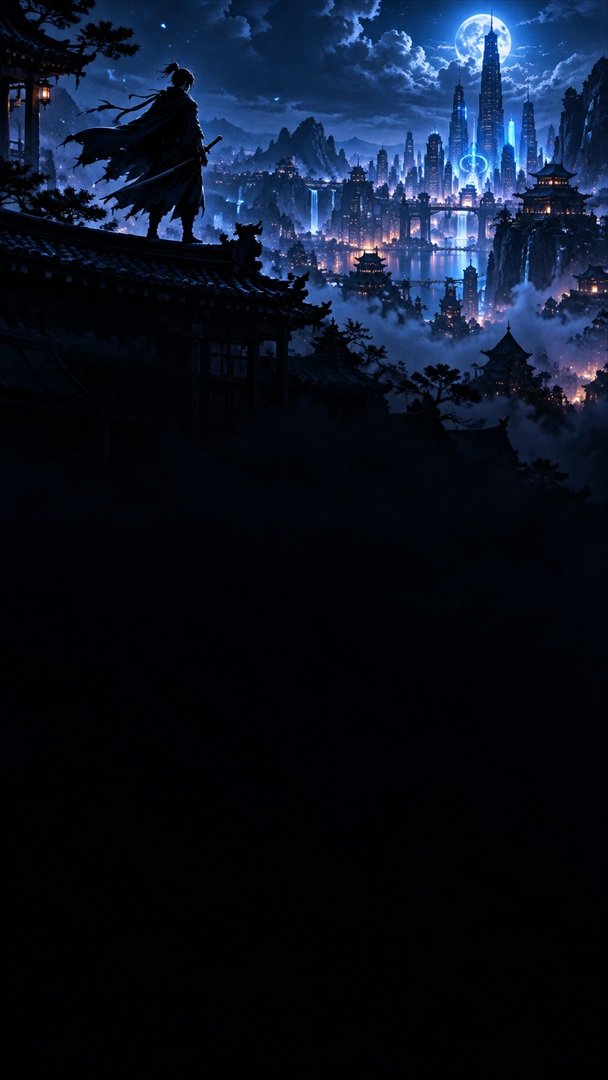
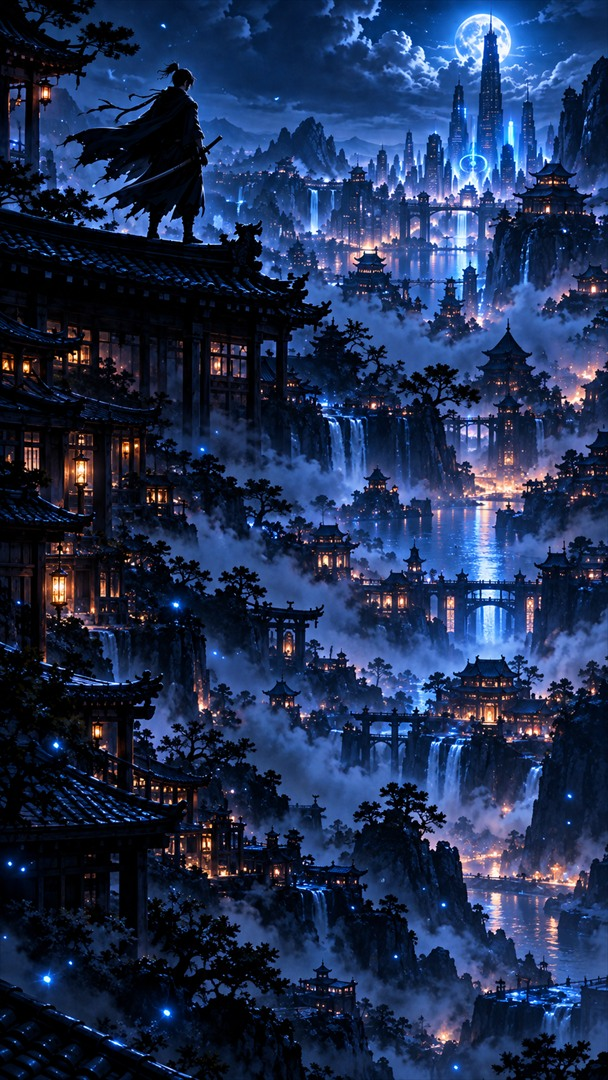
Swap in full-height Today/Gate background art
The redrawn today.png/gate.png (art through the full frame, replacing the
versions that went black below ~40-60%) converted to 608x1080 JPEG q92
(2.5 MB PNG -> 255 / 224 KB). Originals and the previous versions moved to
../images/backgrounds-original/.

The new art is busier/brighter behind the cards, so contrast was
re-measured: today now dims 0.35 and gate 0.45 (each the smallest value
keeping every text element at WCAG AA); quest XP ranges and countdown
values get a small dark backing chip; quest hint/Undo labels move from
text-muted to text-secondary.

diff --git a/tracker-app/src/components/hunter/QuestCards.tsx b/tracker-app/src/components/hunter/QuestCards.tsx
@@ -141,10 +141,13 @@ export function QuestCards({
                     </span>
                   </span>
                   <span className="shrink-0 text-right">
-                    <span className="block font-mono text-lg font-bold text-[rgb(var(--glow))] drop-shadow-[0_0_6px_rgb(var(--glow)/0.6)]">
+                    {/* Tier-colored XP range on its own dark chip (lightened a step
+                        toward white): the deep tier reds/purples can't hold contrast
+                        over bright art through see-through glass on their own. */}
+                    <span className="inline-block rounded-md bg-black/50 px-1.5 font-mono text-lg font-bold text-[color-mix(in_srgb,rgb(var(--glow))_75%,white)] drop-shadow-[0_0_6px_rgb(var(--glow)/0.6)]">
                       {formatTierXPRange(q.tiers)}
                     </span>
-                    <span className="block text-[10px] font-bold text-text-muted uppercase">
+                    <span className="block text-[10px] font-bold text-text-secondary uppercase">
                       {q.tiers.length === 1 ? 'Tap to claim' : isPicking ? 'Pick one' : 'Tap to pick'}
                     </span>
                   </span>
@@ -219,7 +222,7 @@ export function QuestCards({
                     <button
                       type="button"
                       onClick={() => startUndo(q.id)}
-                      className="cursor-pointer text-[10px] font-bold text-text-muted uppercase hover:text-warning"
+                      className="cursor-pointer text-[10px] font-bold text-text-secondary uppercase hover:text-warning"
                     >
                       Undo
                     </button>

diff --git a/tracker-app/src/lib/screenBackgrounds.ts b/tracker-app/src/lib/screenBackgrounds.ts
@@ -34,11 +34,16 @@ export const screenBackground = (key: ScreenBackgroundKey): string | undefined =
   resolveBackground(BACKGROUNDS, key)
 
 // Extra darkening an image needs on top of the standard overlay, by key.
-// It's a property of the artwork, not of the screen showing it: the generic
-// burst (mean luma ~100-113/255 through its middle) and the gate (~78 around
-// the portal) are the two bright images; today/profile stay ≤60 and need
-// none. Values chosen by measuring text contrast over each image.
-const BACKGROUND_DIM: Partial<Record<ScreenBackgroundKey, number>> = { generic: 0.35, gate: 0.35 }
+// It's a property of the artwork, not of the screen showing it: generic,
+// gate and (since their full-height redraw) today are busy/bright behind
+// the card area — the redrawn gate most of all (mean luma up to ~107/255
+// around the portal); profile's dark nebula needs none. Each value is the
+// smallest that keeps every text element at WCAG AA over that image.
+const BACKGROUND_DIM: Partial<Record<ScreenBackgroundKey, number>> = {
+  generic: 0.35,
+  gate: 0.45,
+  today: 0.35,
+}
 
 /** Spread into <ScreenBackground>: the image URL plus that image's dim. */
 export const screenBackgroundProps = (

diff --git a/tracker-app/src/components/ui/CountdownTimer.tsx b/tracker-app/src/components/ui/CountdownTimer.tsx
@@ -61,12 +61,14 @@ export function CountdownTimer({
   return (
     <span
       className={cn(
-        'inline-flex items-center rounded-md border px-2 py-0.5 font-mono text-sm tracking-wider tabular-nums',
+        // bg-black/50: its own dark backing, so the digits stay legible
+        // over screen art seen through see-through glass.
+        'inline-flex items-center rounded-md border bg-black/50 px-2 py-0.5 font-mono text-sm tracking-wider tabular-nums',
         expired
           ? 'border-border text-text-muted'
           : urgent
             ? 'border-tier-red/50 text-tier-red animate-glow-pulse'
-            : 'border-border-strong text-accent',
+            : 'border-border-strong text-accent-hover',
         className,
       )}
       style={urgent ? URGENT_PULSE_STYLE : undefined}

diff --git a/tracker-app/src/components/ui/ScreenBackground.test.tsx b/tracker-app/src/components/ui/ScreenBackground.test.tsx
@@ -128,10 +128,10 @@ describe('screen background registry', () => {
     expect(resolveBackground({ generic: '/g.jpg' }, 'profile')).toBe('/g.jpg')
   })
 
-  it("carries each image's own dim: the two bright images are calmed wherever they're used", () => {
+  it("carries each image's own dim: the bright images are calmed wherever they're used", () => {
     expect(screenBackgroundProps('generic')).toEqual({ image: screenBackground('generic'), dim: 0.35 })
-    expect(screenBackgroundProps('gate').dim).toBe(0.35)
-    expect(screenBackgroundProps('today').dim).toBe(0)
+    expect(screenBackgroundProps('gate').dim).toBe(0.45)
+    expect(screenBackgroundProps('today').dim).toBe(0.35)
     expect(screenBackgroundProps('profile').dim).toBe(0)
   })
 
